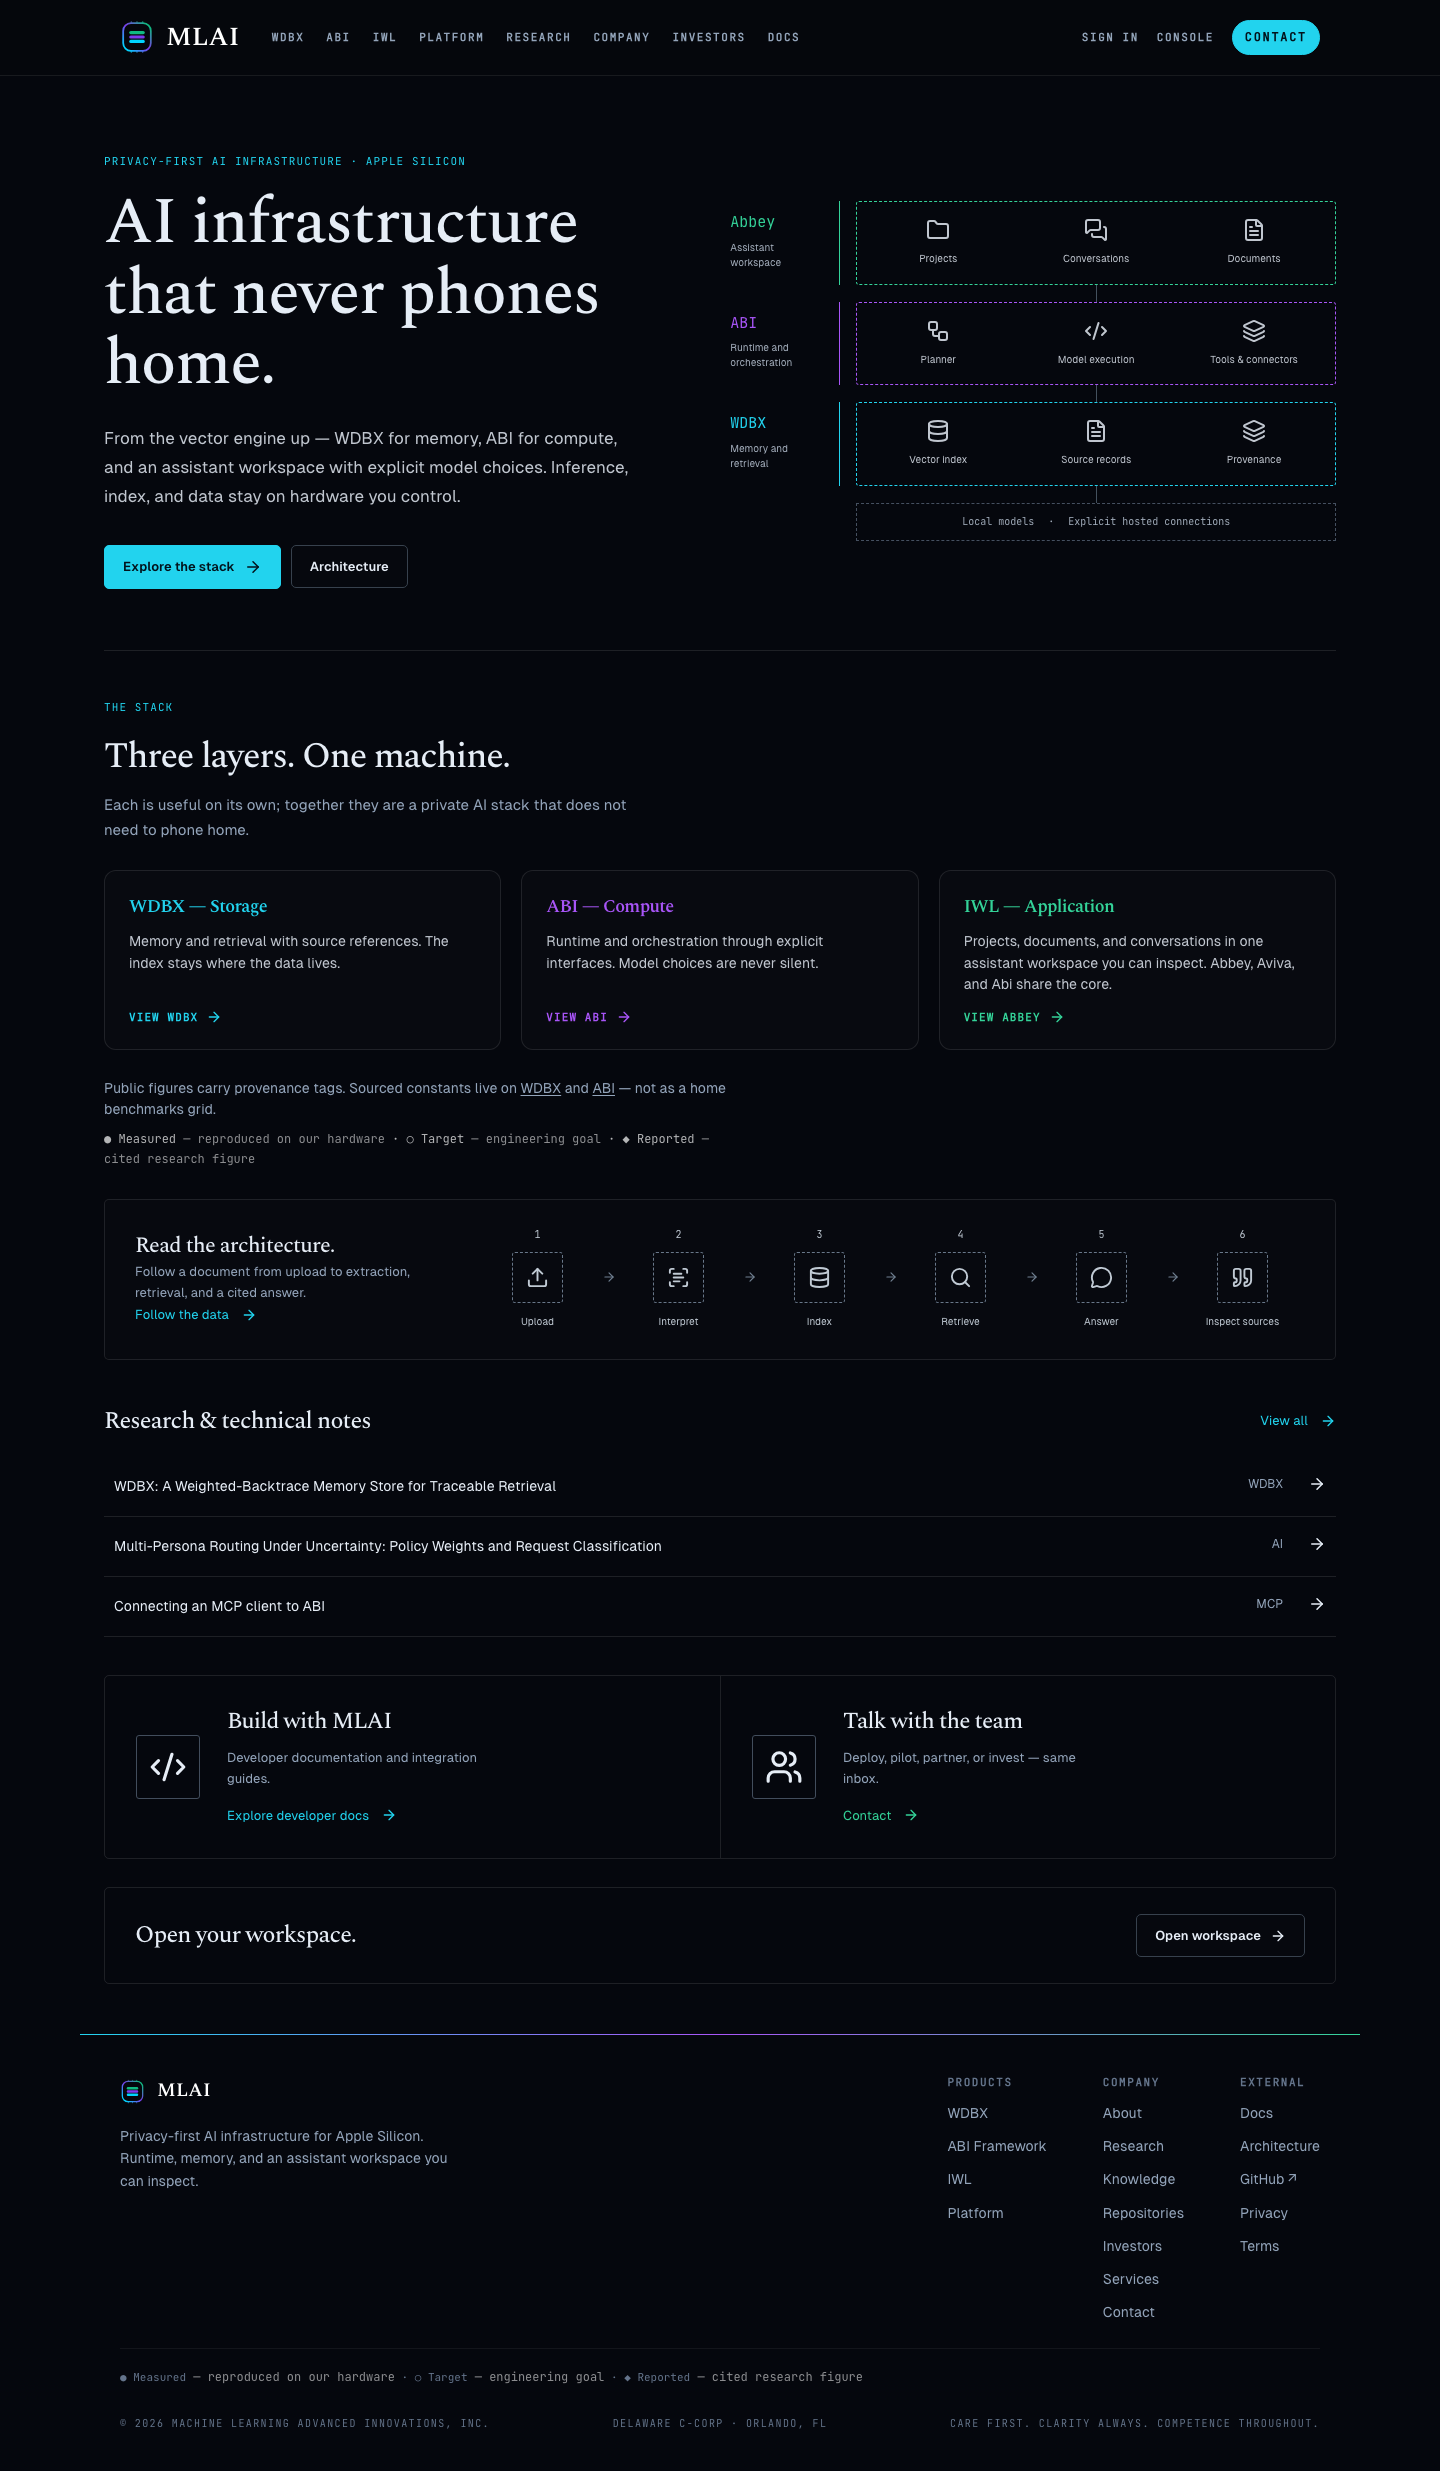
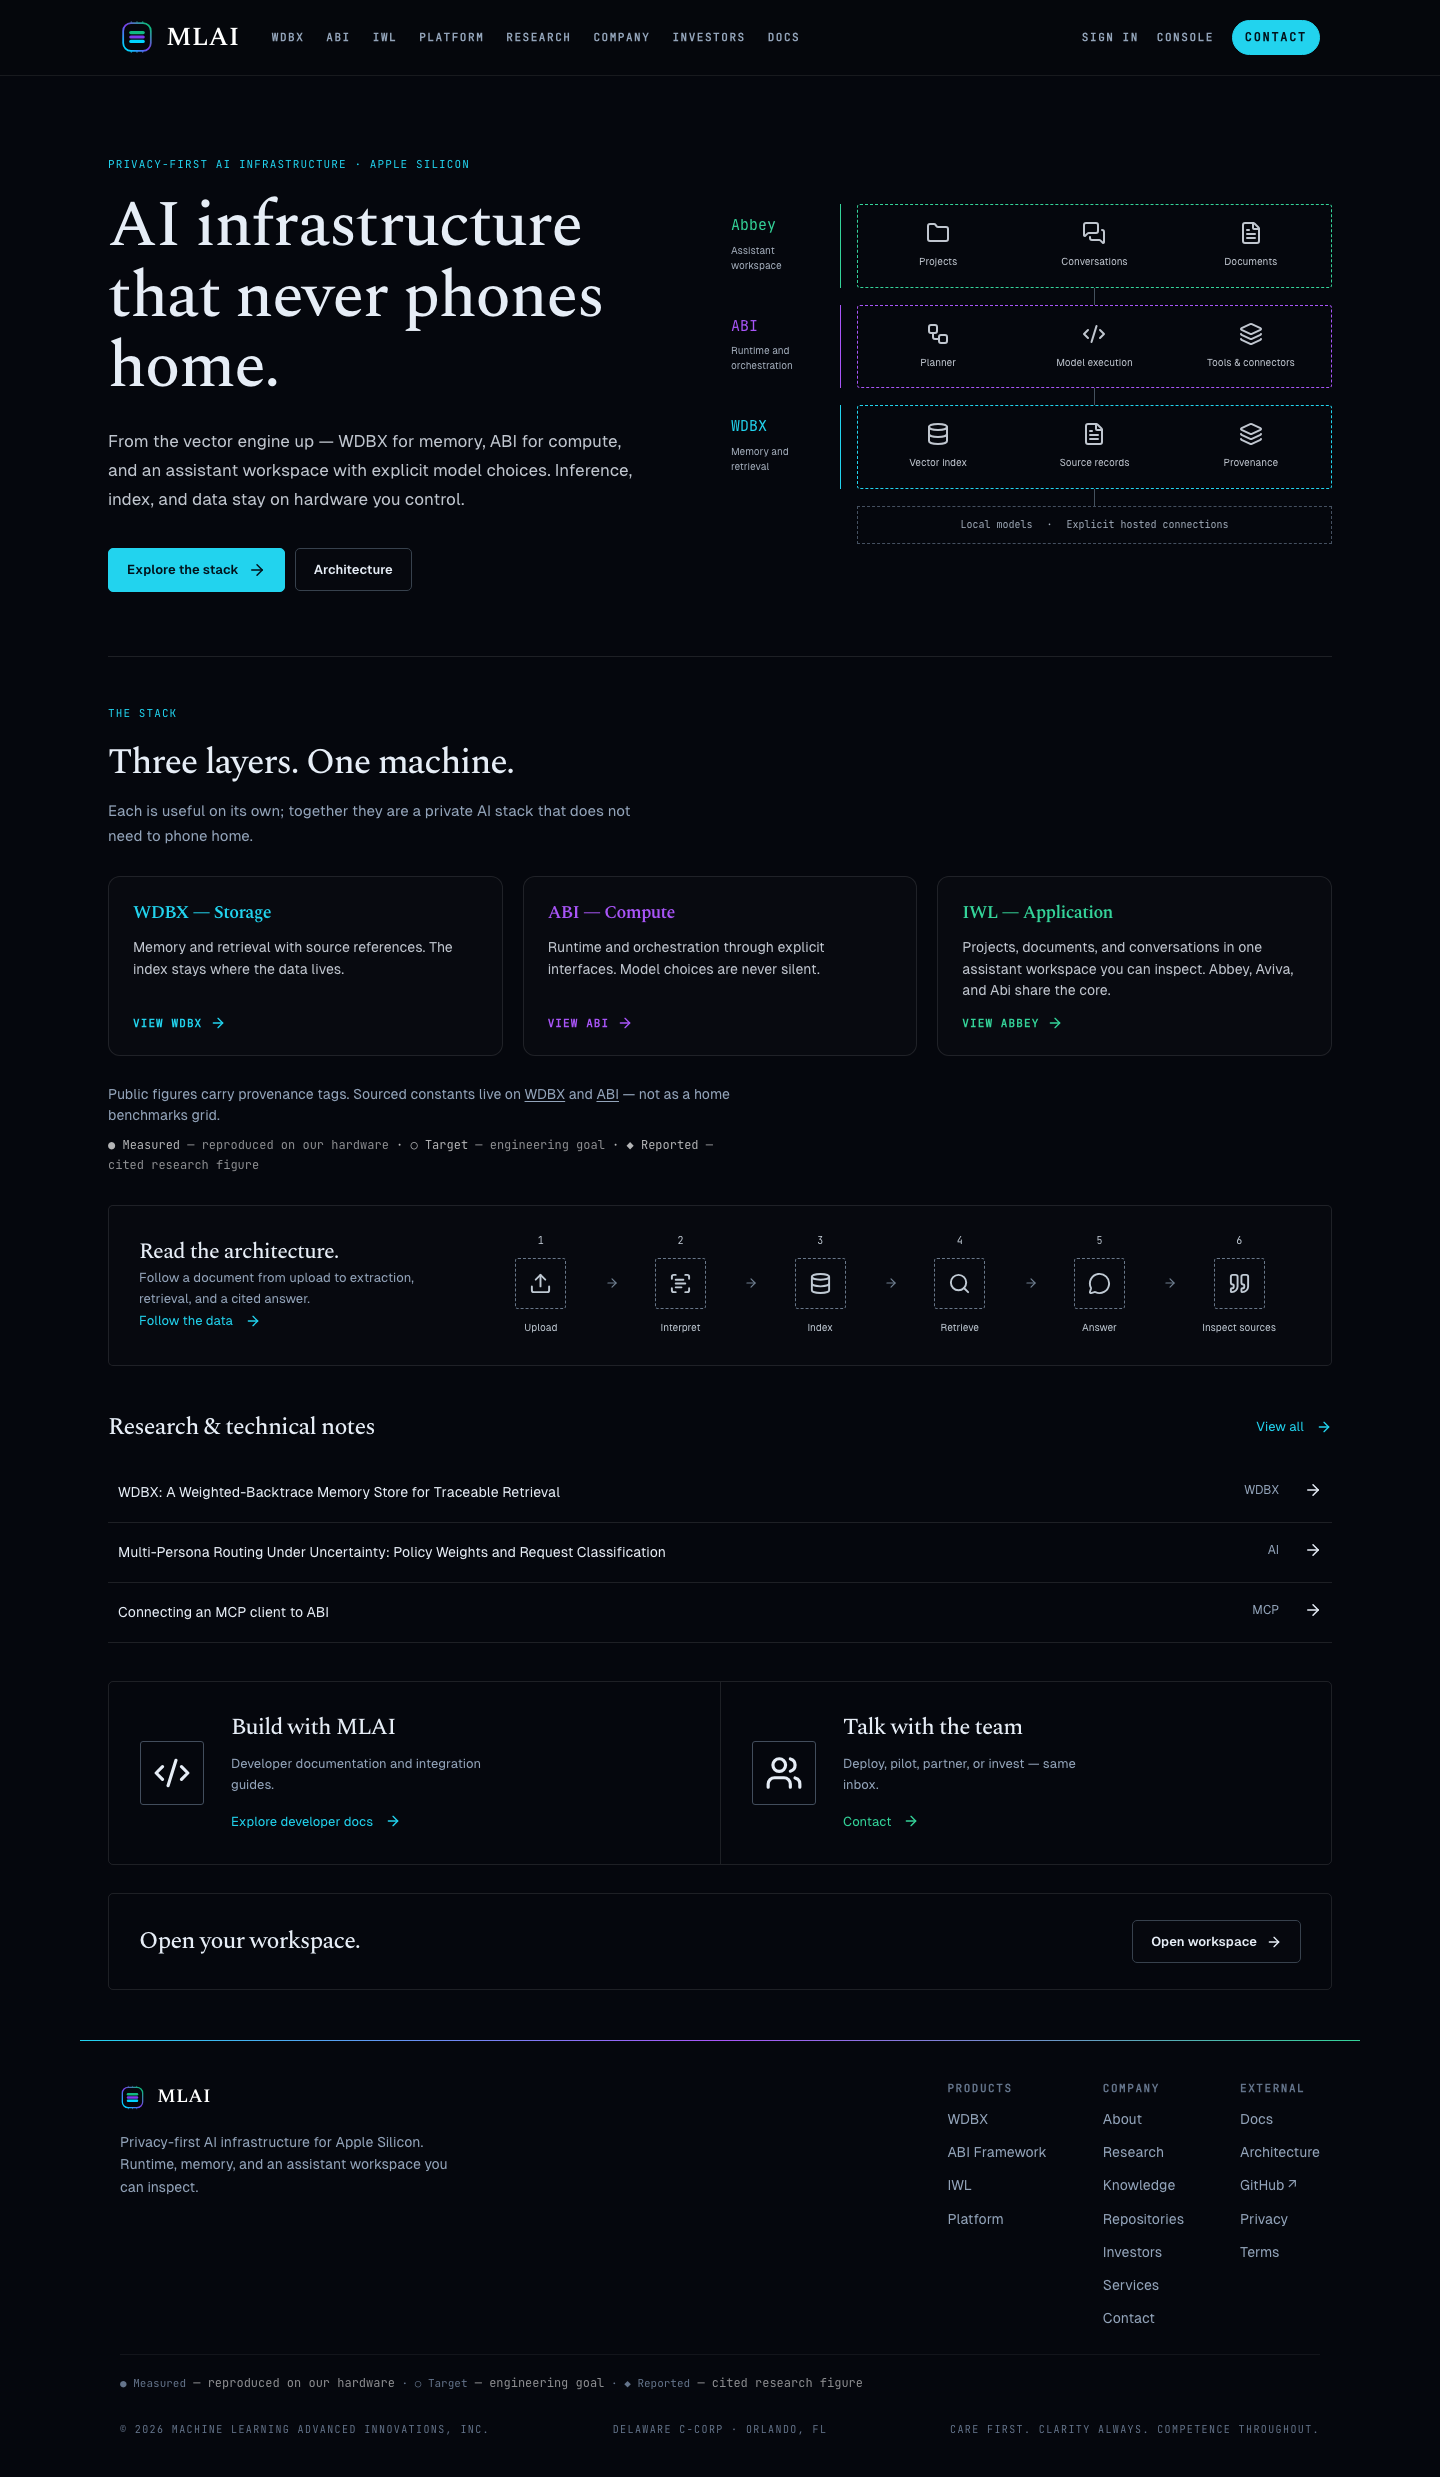
style: put the structural rhythm on one spacing scale
The sheet carried 55 distinct padding/margin values, but they were not all
noise: 20px is the card gap in three separate grids and 32/40/56/64 each set a
real rhythm. Those become scale steps. The one-offs sitting beside them for no
recoverable reason -- 44, 55, 61, 72, 77 -- snap onto the nearest step, none
moving more than 8px, which also makes the marketing hero's padding symmetric
instead of arbitrarily 8px heavier at the top.

Same rule as the colour and radius sweeps: one authority per repeated value,
rather than a scale imposed from outside and forced onto the design. Verified
at 390/768/1440 across home, wdbx and platform -- zero horizontal overflow on
all nine.

diff --git a/src/app/globals.css b/src/app/globals.css
@@ -9,14 +9,14 @@
 .public-container {
   max-width: 1320px;
   margin: auto;
-  padding: 0 44px;
+  padding: 0 var(--space-9);
 }
 
 .home-hero {
   display: grid;
   grid-template-columns: 1fr 1.06fr;
-  gap: 55px;
-  padding: 77px 0 61px;
+  gap: var(--space-10);
+  padding: var(--space-12) 0 var(--space-11);
   align-items: center;
 }
 
@@ -37,7 +37,7 @@
 
 .system-section {
   border-top: 1px solid var(--line);
-  padding: 32px 0 0;
+  padding: var(--space-7) 0 0;
 }
 
 .system-section h2 {
@@ -297,7 +297,7 @@
 .stack-grid {
   display: grid;
   grid-template-columns: repeat(3, 1fr);
-  gap: 20px;
+  gap: var(--space-5);
 }
 
 .stack-card {
@@ -2081,9 +2081,9 @@
 .marketing-hero {
   display: grid;
   grid-template-columns: 1.2fr 1fr;
-  gap: 56px;
+  gap: var(--space-10);
   align-items: center;
-  padding: 72px 0 64px;
+  padding: var(--space-11) 0 var(--space-11);
   border-bottom: 1px solid var(--line);
 }
 
@@ -2097,13 +2097,13 @@
 }
 
 .marketing-section {
-  padding: 56px 0 8px;
+  padding: var(--space-10) 0 var(--space-2);
 }
 
 .feature-grid {
   display: grid;
   grid-template-columns: 1fr 1fr;
-  gap: 20px;
+  gap: var(--space-5);
   margin-top: 28px;
 }
 
@@ -2316,7 +2316,7 @@
 .split-section {
   display: grid;
   grid-template-columns: 0.9fr 1.1fr;
-  gap: 40px;
+  gap: var(--space-8);
   border: 1px solid var(--line);
   border-radius: var(--radius-xl);
   padding: 36px 40px;
@@ -2346,8 +2346,8 @@
 .next-up {
   display: grid;
   grid-template-columns: 1fr 1fr;
-  gap: 20px;
-  margin: 56px 0 24px;
+  gap: var(--space-5);
+  margin: var(--space-10) 0 var(--space-6);
 }
 
 .next-up-card {
@@ -3759,7 +3759,7 @@
    so the ledger below it is the widest thing on the page. */
 
 .ledger-hero {
-  padding: 72px 0 56px;
+  padding: var(--space-11) 0 var(--space-10);
   border-bottom: 1px solid var(--line);
 }
 

diff --git a/packages/ui/src/styles/tokens.css b/packages/ui/src/styles/tokens.css
@@ -53,16 +53,25 @@
   --tracking-display: -0.02em;
   --leading-display: 1.08;
 
-  /* Spacing. Hand-tuned values ran 9/19/22/23/47px; this is a 4px grid, which
-     is also what the Tailwind primitives already use. */
+  /* Spacing. The sheet carried 55 distinct padding/margin values, but they are
+     not all noise: 20px is the card gap in three separate grids, and 32/40/56/64
+     each set a real structural rhythm. Those stay as steps; the one-offs that
+     sat beside them for no recoverable reason (44, 55, 61, 72, 77) snap onto the
+     nearest, none moving more than 8px. Same rule as the colour and radius
+     sweeps — one authority per repeated value, not a scale imposed from
+     outside. */
   --space-1: 4px;
   --space-2: 8px;
   --space-3: 12px;
   --space-4: 16px;
-  --space-5: 24px;
-  --space-6: 32px;
-  --space-7: 48px;
-  --space-8: 64px;
+  --space-5: 20px;
+  --space-6: 24px;
+  --space-7: 32px;
+  --space-8: 40px;
+  --space-9: 48px;
+  --space-10: 56px;
+  --space-11: 64px;
+  --space-12: 80px;
   /* Product accents. AGENTS.md fixes these three: WDBX cyan, ABI violet, Abbey emerald. */
   --accent-wdbx: var(--cyan);
   --accent-abi: var(--purple);
